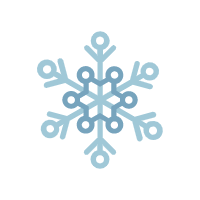
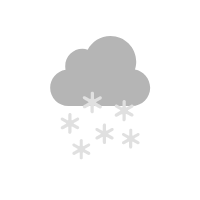
fix animation to autumn

Changed region(s): [[0.18, 0.15, 0.84, 0.87]]

diff --git a/src/components/commons/Animation/Animation.js b/src/components/commons/Animation/Animation.js
@@ -36,8 +36,6 @@ import winter_3 from '../../../assets/image/winter/winter_3.png';
 import winter_4 from '../../../assets/image/winter/winter_4.png';
 import winter_5 from '../../../assets/image/winter/winter_5.png';
 import winter_6 from '../../../assets/image/winter/winter_6.png';
-import winter_7 from '../../../assets/image/winter/winter_7.png';
-import winter_8 from '../../../assets/image/winter/winter_8.png';
 
 // import css from './Animation.module.scss';
 
@@ -83,8 +81,6 @@ const seasons = {
     { src: winter_4, height: 20, width: 20 },
     { src: winter_5, height: 20, width: 20 },
     { src: winter_6, height: 20, width: 20 },
-    { src: winter_7, height: 20, width: 20 },
-    { src: winter_8, height: 20, width: 20 },
   ],
 };
 
@@ -113,14 +109,14 @@ const animation = {
           nb_sides: 5,
         },
         // =================== summer
-        image: [
-          { src: flower1, height: 20, width: 20 },
-          { src: flower2, height: 20, width: 20 },
-          { src: flower3, height: 20, width: 20 },
-          { src: flower4, height: 20, width: 20 },
-          { src: flower5, height: 20, width: 20 },
-          { src: flower6, height: 20, width: 20 },
-        ],
+        // image: [
+        //   { src: flower1, height: 20, width: 20 },
+        //   { src: flower2, height: 20, width: 20 },
+        //   { src: flower3, height: 20, width: 20 },
+        //   { src: flower4, height: 20, width: 20 },
+        //   { src: flower5, height: 20, width: 20 },
+        //   { src: flower6, height: 20, width: 20 },
+        // ],
         // =================== autumn 2
         // image: [
         //   { src: maple1, height: 20, width: 20 },
@@ -134,25 +130,25 @@ const animation = {
         //   { src: apple, height: 20, width: 20 },
         // ],
         // =================== autumn
-        // image: [
-        //   { src: apple, height: 20, width: 20 },
-        //   { src: carrot, height: 20, width: 20 },
-        //   { src: cherry, height: 20, width: 20 },
-        //   { src: grape, height: 20, width: 20 },
-        //   { src: lemon, height: 20, width: 20 },
-        //   { src: pear, height: 20, width: 20 },
-        //   { src: pumpkin, height: 20, width: 20 },
-        //   { src: strawberry, height: 20, width: 20 },
-        //   { src: watermelon, height: 20, width: 20 },
-        // ],
+        image: [
+          { src: apple, height: 20, width: 20 },
+          { src: carrot, height: 20, width: 20 },
+          { src: cherry, height: 20, width: 20 },
+          { src: grape, height: 20, width: 20 },
+          { src: lemon, height: 20, width: 20 },
+          { src: pear, height: 20, width: 20 },
+          { src: pumpkin, height: 20, width: 20 },
+          { src: strawberry, height: 20, width: 20 },
+          { src: watermelon, height: 20, width: 20 },
+        ],
         // =================== winter
         // image: [
-        // { src: winter_1, height: 20, width: 20 },
-        // { src: winter_4, height: 20, width: 20 },
-        // { src: winter_5, height: 20, width: 20 },
-        // { src: winter_6, height: 20, width: 20 },
-        // { src: winter_7, height: 20, width: 20 },
-        // { src: winter_8, height: 20, width: 20 },
+        //   { src: winter_1, height: 20, width: 20 },
+        //   { src: winter_2, height: 20, width: 20 },
+        //   { src: winter_3, height: 20, width: 20 },
+        //   { src: winter_4, height: 20, width: 20 },
+        //   { src: winter_5, height: 20, width: 20 },
+        //   { src: winter_6, height: 20, width: 20 },
         // ],
       },
 
